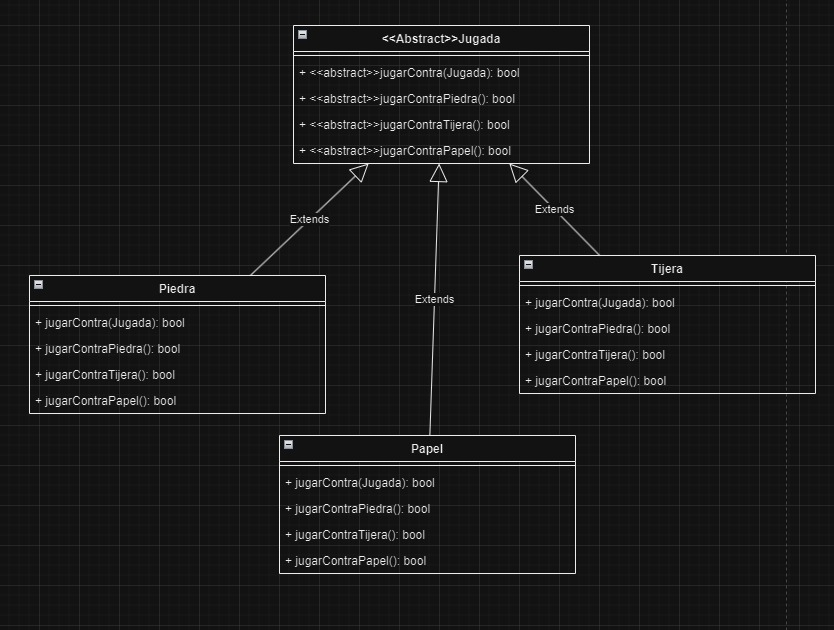
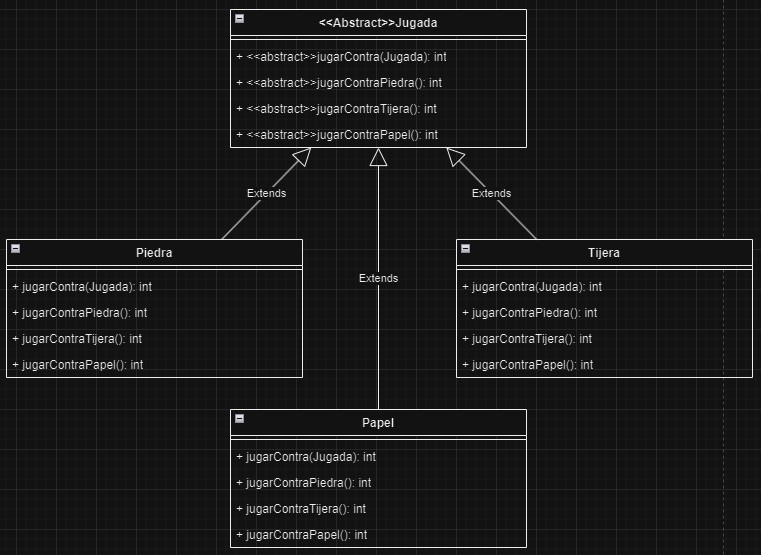
cambios para empate

Changed region(s): [[0.0, 0.0, 0.9974, 1.0], [0.4836, 0.4595, 0.544, 0.5207], [0.5138, 0.6126, 0.544, 0.6432]]

diff --git a/ejercicio_2/src/main/java/ar/edu/unlp/info/oo2/ejercicio_2/Piedra.java b/ejercicio_2/src/main/java/ar/edu/unlp/info/oo2/ejercicio_2/Piedra.java
@@ -3,23 +3,23 @@ package ar.edu.unlp.info.oo2.ejercicio_2;
 public class Piedra extends Jugada {
 
 	@Override
-	public boolean jugarContra(Jugada jugada) {
-		return !jugada.jugarContraPiedra();
+	public int jugarContra(Jugada jugada) {
+		return jugada.jugarContraPiedra() * -1;
 	}
 
 	@Override
-	public boolean jugarContraPiedra() {
-		return false;
+	public int jugarContraPiedra() {
+		return 0;
 	}
 
 	@Override
-	public boolean jugarContraPapel() {
-		return false;
+	public int jugarContraPapel() {
+		return -1;
 	}
 
 	@Override
-	public boolean jugarContraTijera() {
-		return false;
+	public int jugarContraTijera() {
+		return 1;
 	}
 
 }

diff --git a/ejercicio_2/src/main/java/ar/edu/unlp/info/oo2/ejercicio_2/Tijera.java b/ejercicio_2/src/main/java/ar/edu/unlp/info/oo2/ejercicio_2/Tijera.java
@@ -1,0 +1,29 @@
+package ar.edu.unlp.info.oo2.ejercicio_2;
+
+public class Tijera extends Jugada{
+
+	@Override
+	public int jugarContra(Jugada jugada) {
+		// TODO Auto-generated method stub
+		return jugada.jugarContraTijera() * -1;
+	}
+
+	@Override
+	public int jugarContraPiedra() {
+		// TODO Auto-generated method stub
+		return -1;
+	}
+
+	@Override
+	public int jugarContraPapel() {
+		// TODO Auto-generated method stub
+		return 1;
+	}
+
+	@Override
+	public int jugarContraTijera() {
+		// TODO Auto-generated method stub
+		return 0;
+	}
+
+}

diff --git a/ejercicio_2/src/main/java/ar/edu/unlp/info/oo2/ejercicio_2/Papel.java b/ejercicio_2/src/main/java/ar/edu/unlp/info/oo2/ejercicio_2/Papel.java
@@ -1,0 +1,29 @@
+package ar.edu.unlp.info.oo2.ejercicio_2;
+
+public class Papel extends Jugada{
+
+	@Override
+	public int jugarContra(Jugada jugada) {
+		// TODO Auto-generated method stub
+		return jugada.jugarContraPapel() * -1;
+	}
+
+	@Override
+	public int jugarContraPiedra() {
+		// TODO Auto-generated method stub
+		return 1;
+	}
+
+	@Override
+	public int jugarContraPapel() {
+		// TODO Auto-generated method stub
+		return 0;
+	}
+
+	@Override
+	public int jugarContraTijera() {
+		// TODO Auto-generated method stub
+		return -1;
+	}
+
+}

diff --git a/ejercicio_2/src/main/java/ar/edu/unlp/info/oo2/ejercicio_2/Jugada.java b/ejercicio_2/src/main/java/ar/edu/unlp/info/oo2/ejercicio_2/Jugada.java
@@ -1,8 +1,11 @@
 package ar.edu.unlp.info.oo2.ejercicio_2;
 
 public abstract class Jugada {
-	public abstract boolean jugarContra(Jugada jugada);
-	public abstract boolean jugarContraPiedra();
-	public abstract boolean jugarContraPapel();
-	public abstract boolean jugarContraTijera();
+	/*
+	 * Retorna -1 si pierde, 0 si empata y 1 si gana
+	 * */
+	public abstract int jugarContra(Jugada jugada);
+	public abstract int jugarContraPiedra();
+	public abstract int jugarContraPapel();
+	public abstract int jugarContraTijera();
 }
